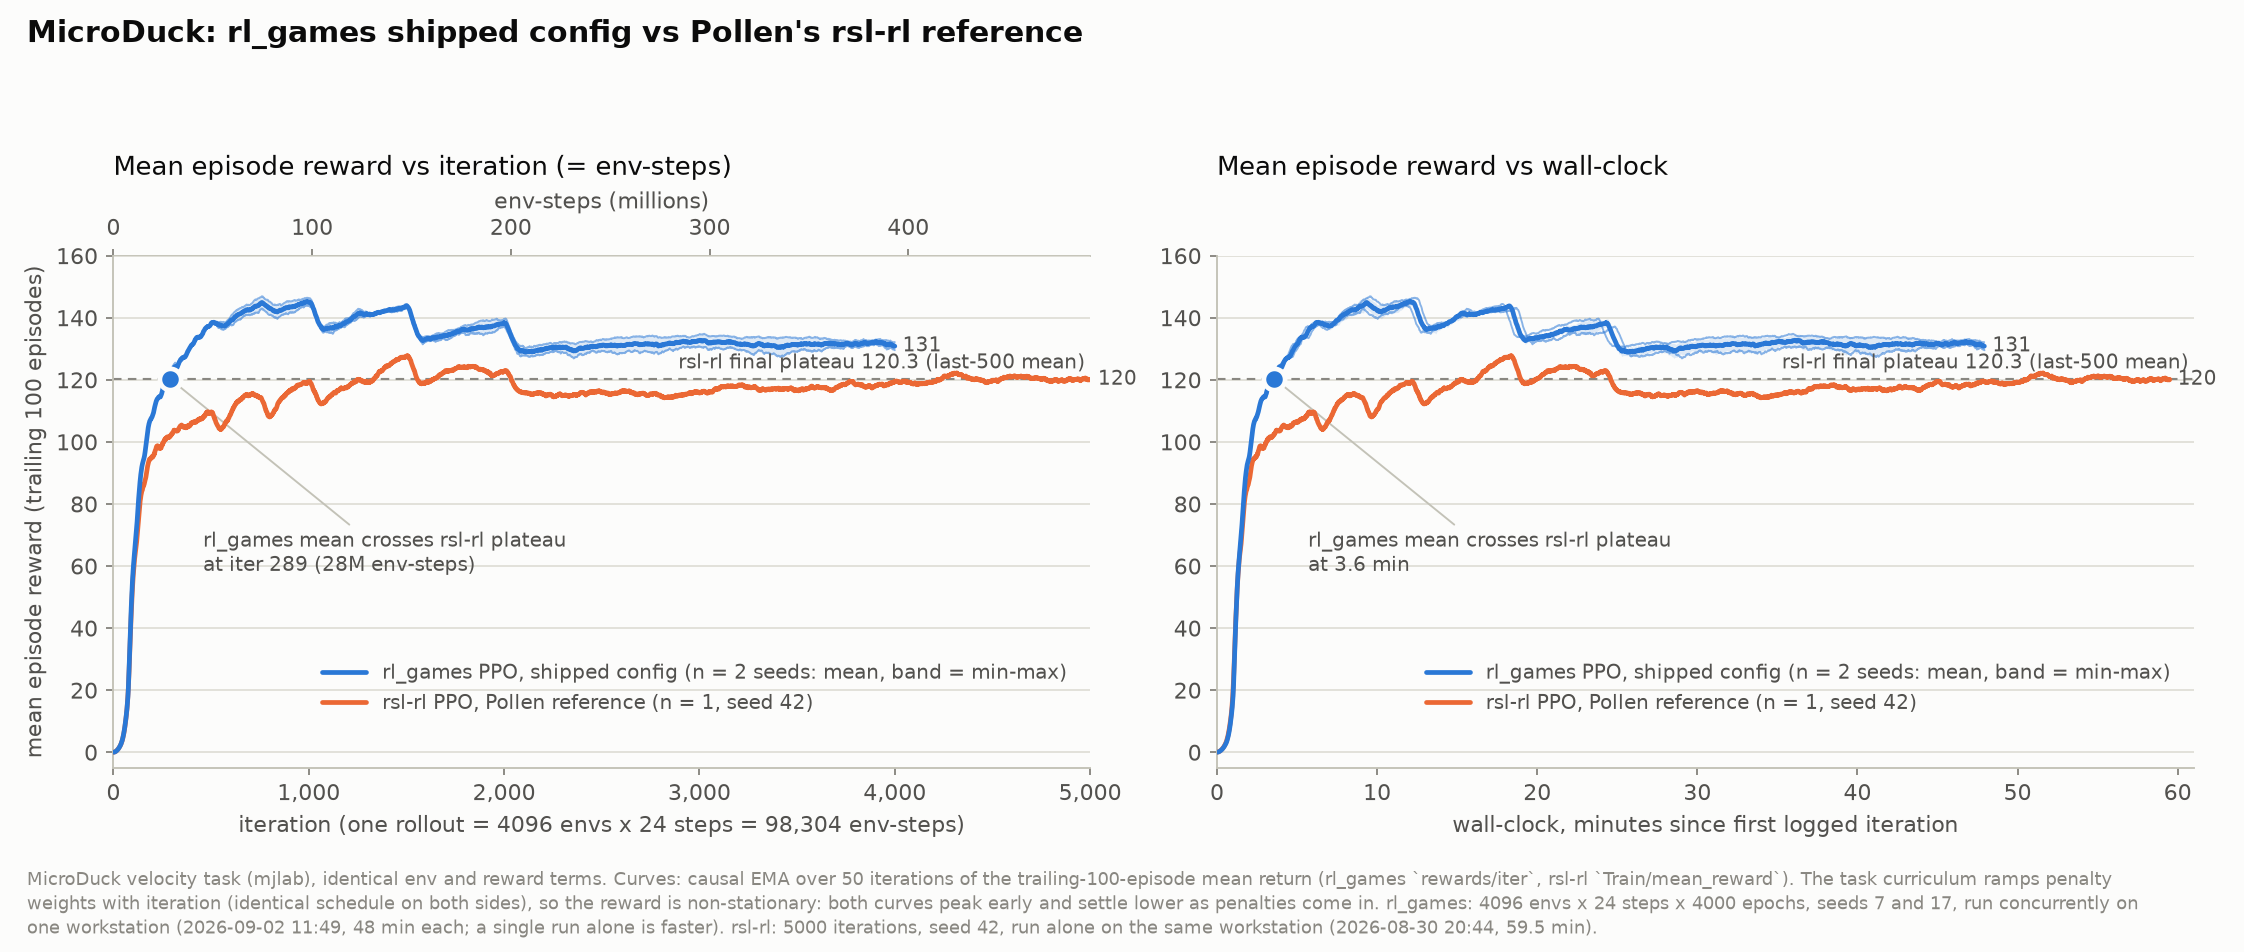
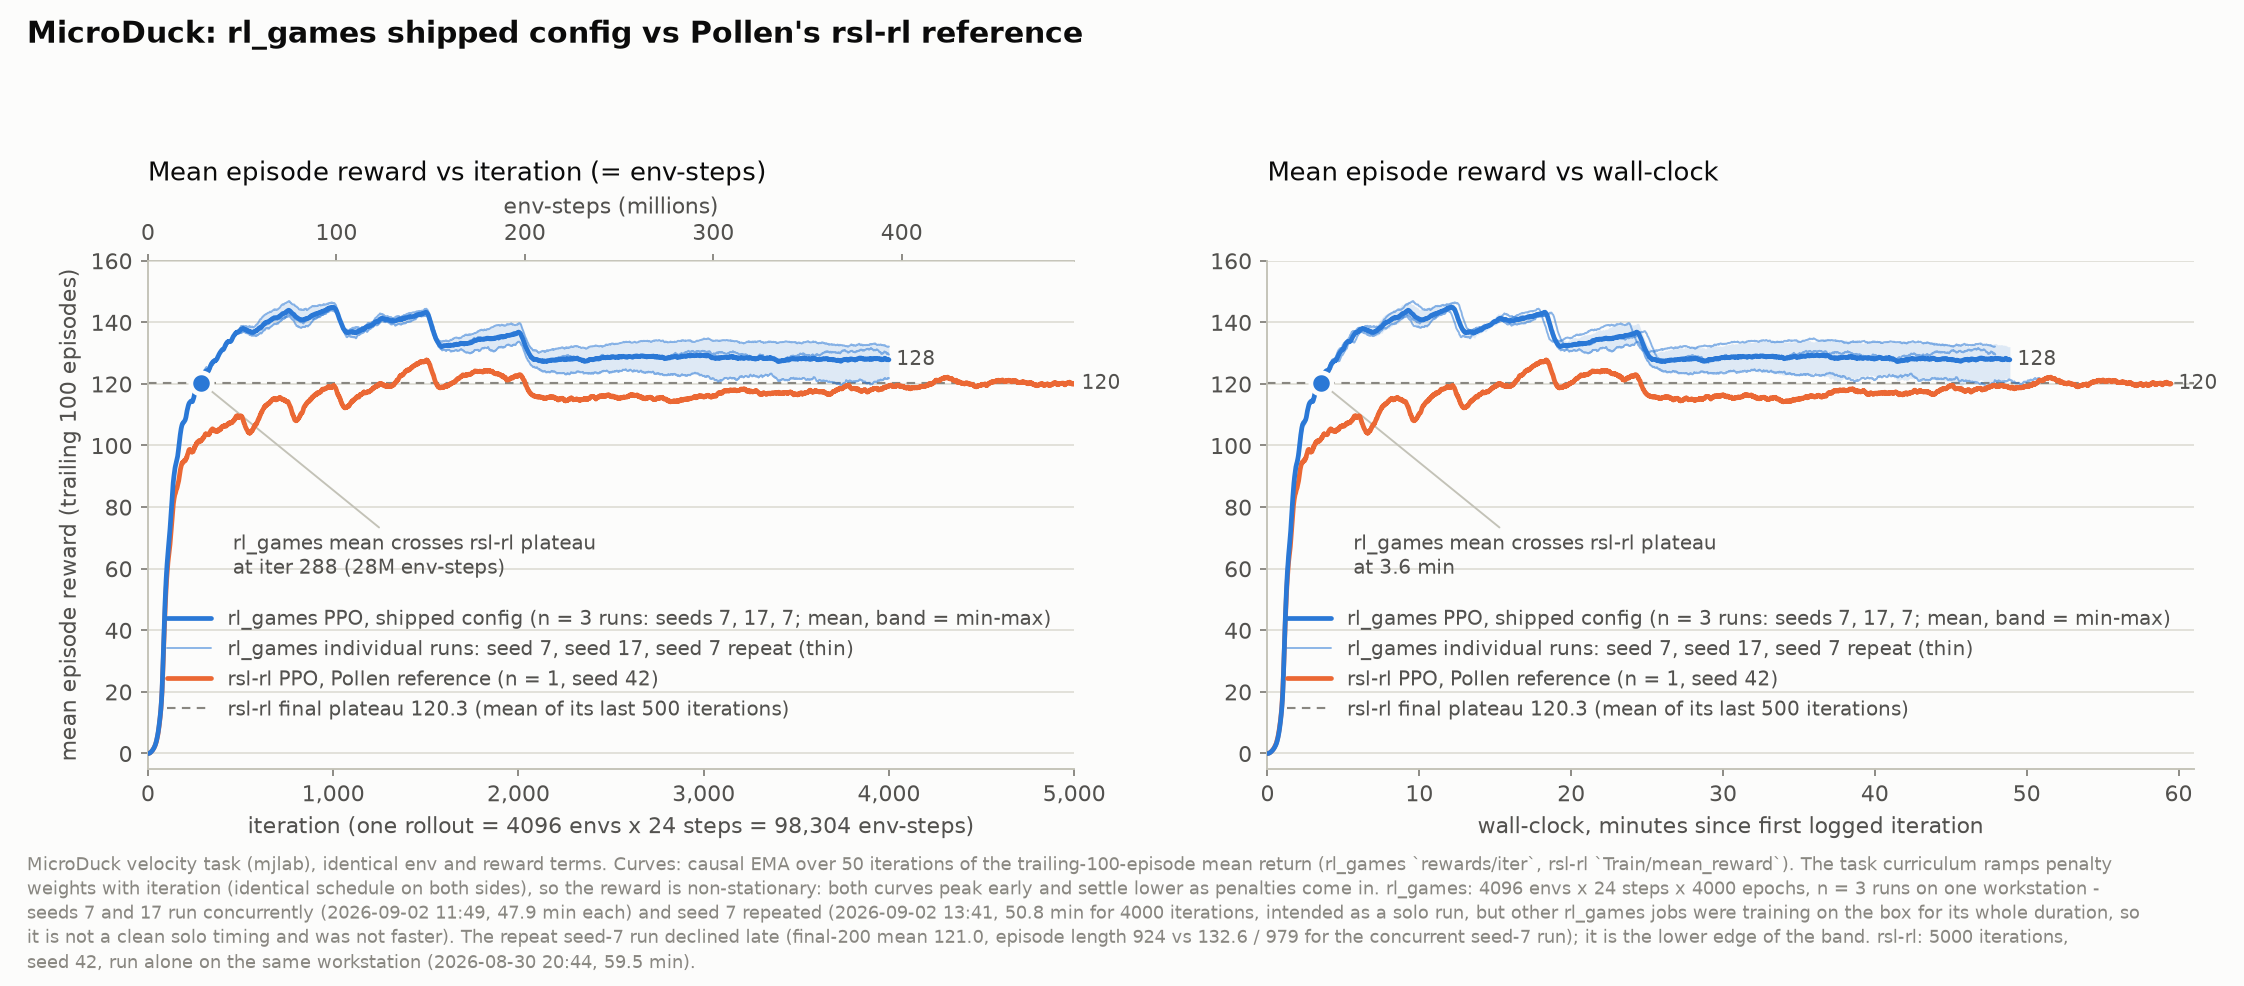
docs/MJLAB: MicroDuck comparison on three runs
Third shipped-config run (seed 7 repeated) added to the table and figure:
final 128 (121 to 133; the repeat declined late with shorter episodes) vs
120.3, peak 147.7 vs 131.7, rsl-rl's plateau reached at iterations 273 to
297 (3.5 to 3.6 min) in all three. Every rl_games run shared the box with
another job; per-iteration cost still matches the reference.

diff --git a/docs/MJLAB.md b/docs/MJLAB.md
@@ -239,15 +239,17 @@ exploration floor the task was designed around.
 
 Same-machine comparison against Pollen's rsl-rl reference recipe at its own
 geometry (4096 envs × 24 steps), identical env and reward terms, raw
-100-episode mean return on both sides: `ppo_microduck_velocity.yaml` on two
-seeds (4000 epochs) vs the reference run (5000 iterations, one seed).
+100-episode mean return on both sides: `ppo_microduck_velocity.yaml` on three
+runs (seeds 7, 17 and 7 again, 4000 epochs) vs the reference run (5000
+iterations, one seed).
 
-| | rl_games (2 seeds) | rsl-rl reference |
+| | rl_games (3 runs) | rsl-rl reference |
 |---|---|---|
-| final reward (last 200 / 500 iterations) | **131.6 ± 1.0** | 120.3 |
-| peak reward | **147.4** | 131.7 |
-| reaches the rsl-rl plateau (120.3) | **iteration 289, 3.6 min** | iteration 1,333, 16.3 min |
-| seconds per iteration | 0.72 | 0.71 |
+| final reward (last 200 / 500 iterations) | **128** (121 to 133) | 120.3 |
+| peak reward | **147.7** (147 to 149) | 131.7 |
+| reaches the rsl-rl plateau (120.3) | **iterations 273 to 297, 3.5 to 3.6 min** | iteration 1,333, 16.3 min |
+| wall-clock for the full run | 48 to 51 min for 4,000 iterations | 59.5 min for 5,000 |
+| seconds per iteration | 0.72 to 0.76 | 0.71 |
 
 ![MicroDuck: rl_games vs rsl-rl](pictures/mjlab/microduck_comparison.png)
 
@@ -260,11 +262,13 @@ is 0.25–0.27 m/s, yaw 0.84–0.90 rad/s at a 1.0 rad/s command, lateral
 0.06 m/s at the 0.3 m/s command: forward and yaw track at roughly two
 thirds of the command, lateral is the weak axis. Zero falls in the take.
 
-The two rl_games seeds ran concurrently on one workstation (48 min each),
-so their wall-clock axis is pessimistic; per-iteration cost is at parity.
-The task curriculum ramps penalty weights with iteration on both sides, so
-both curves peak early and settle lower as the penalties come in; the
-final-window numbers are the steady state. Recipe differences from the
+Every rl_games run shared the workstation with another training job (the
+reference ran alone), and per-iteration cost still matches the reference, so
+the wall-clock gain is sample efficiency, not simulator throughput. The task
+curriculum ramps penalty weights with iteration on both sides, so both
+curves peak early and settle lower as the penalties come in; the final-window
+numbers are the steady state, and one of the three runs settled at 121 with
+shorter episodes, hence the spread. Recipe differences from the
 reference: `entropy_coef: 0` (a positive entropy bonus on rl_games' free
 per-dimension log-std inflates sigma under the action-rate ramp and the
 policy learns to fall), explicit `min_lr`/`max_lr` bounds on the adaptive
